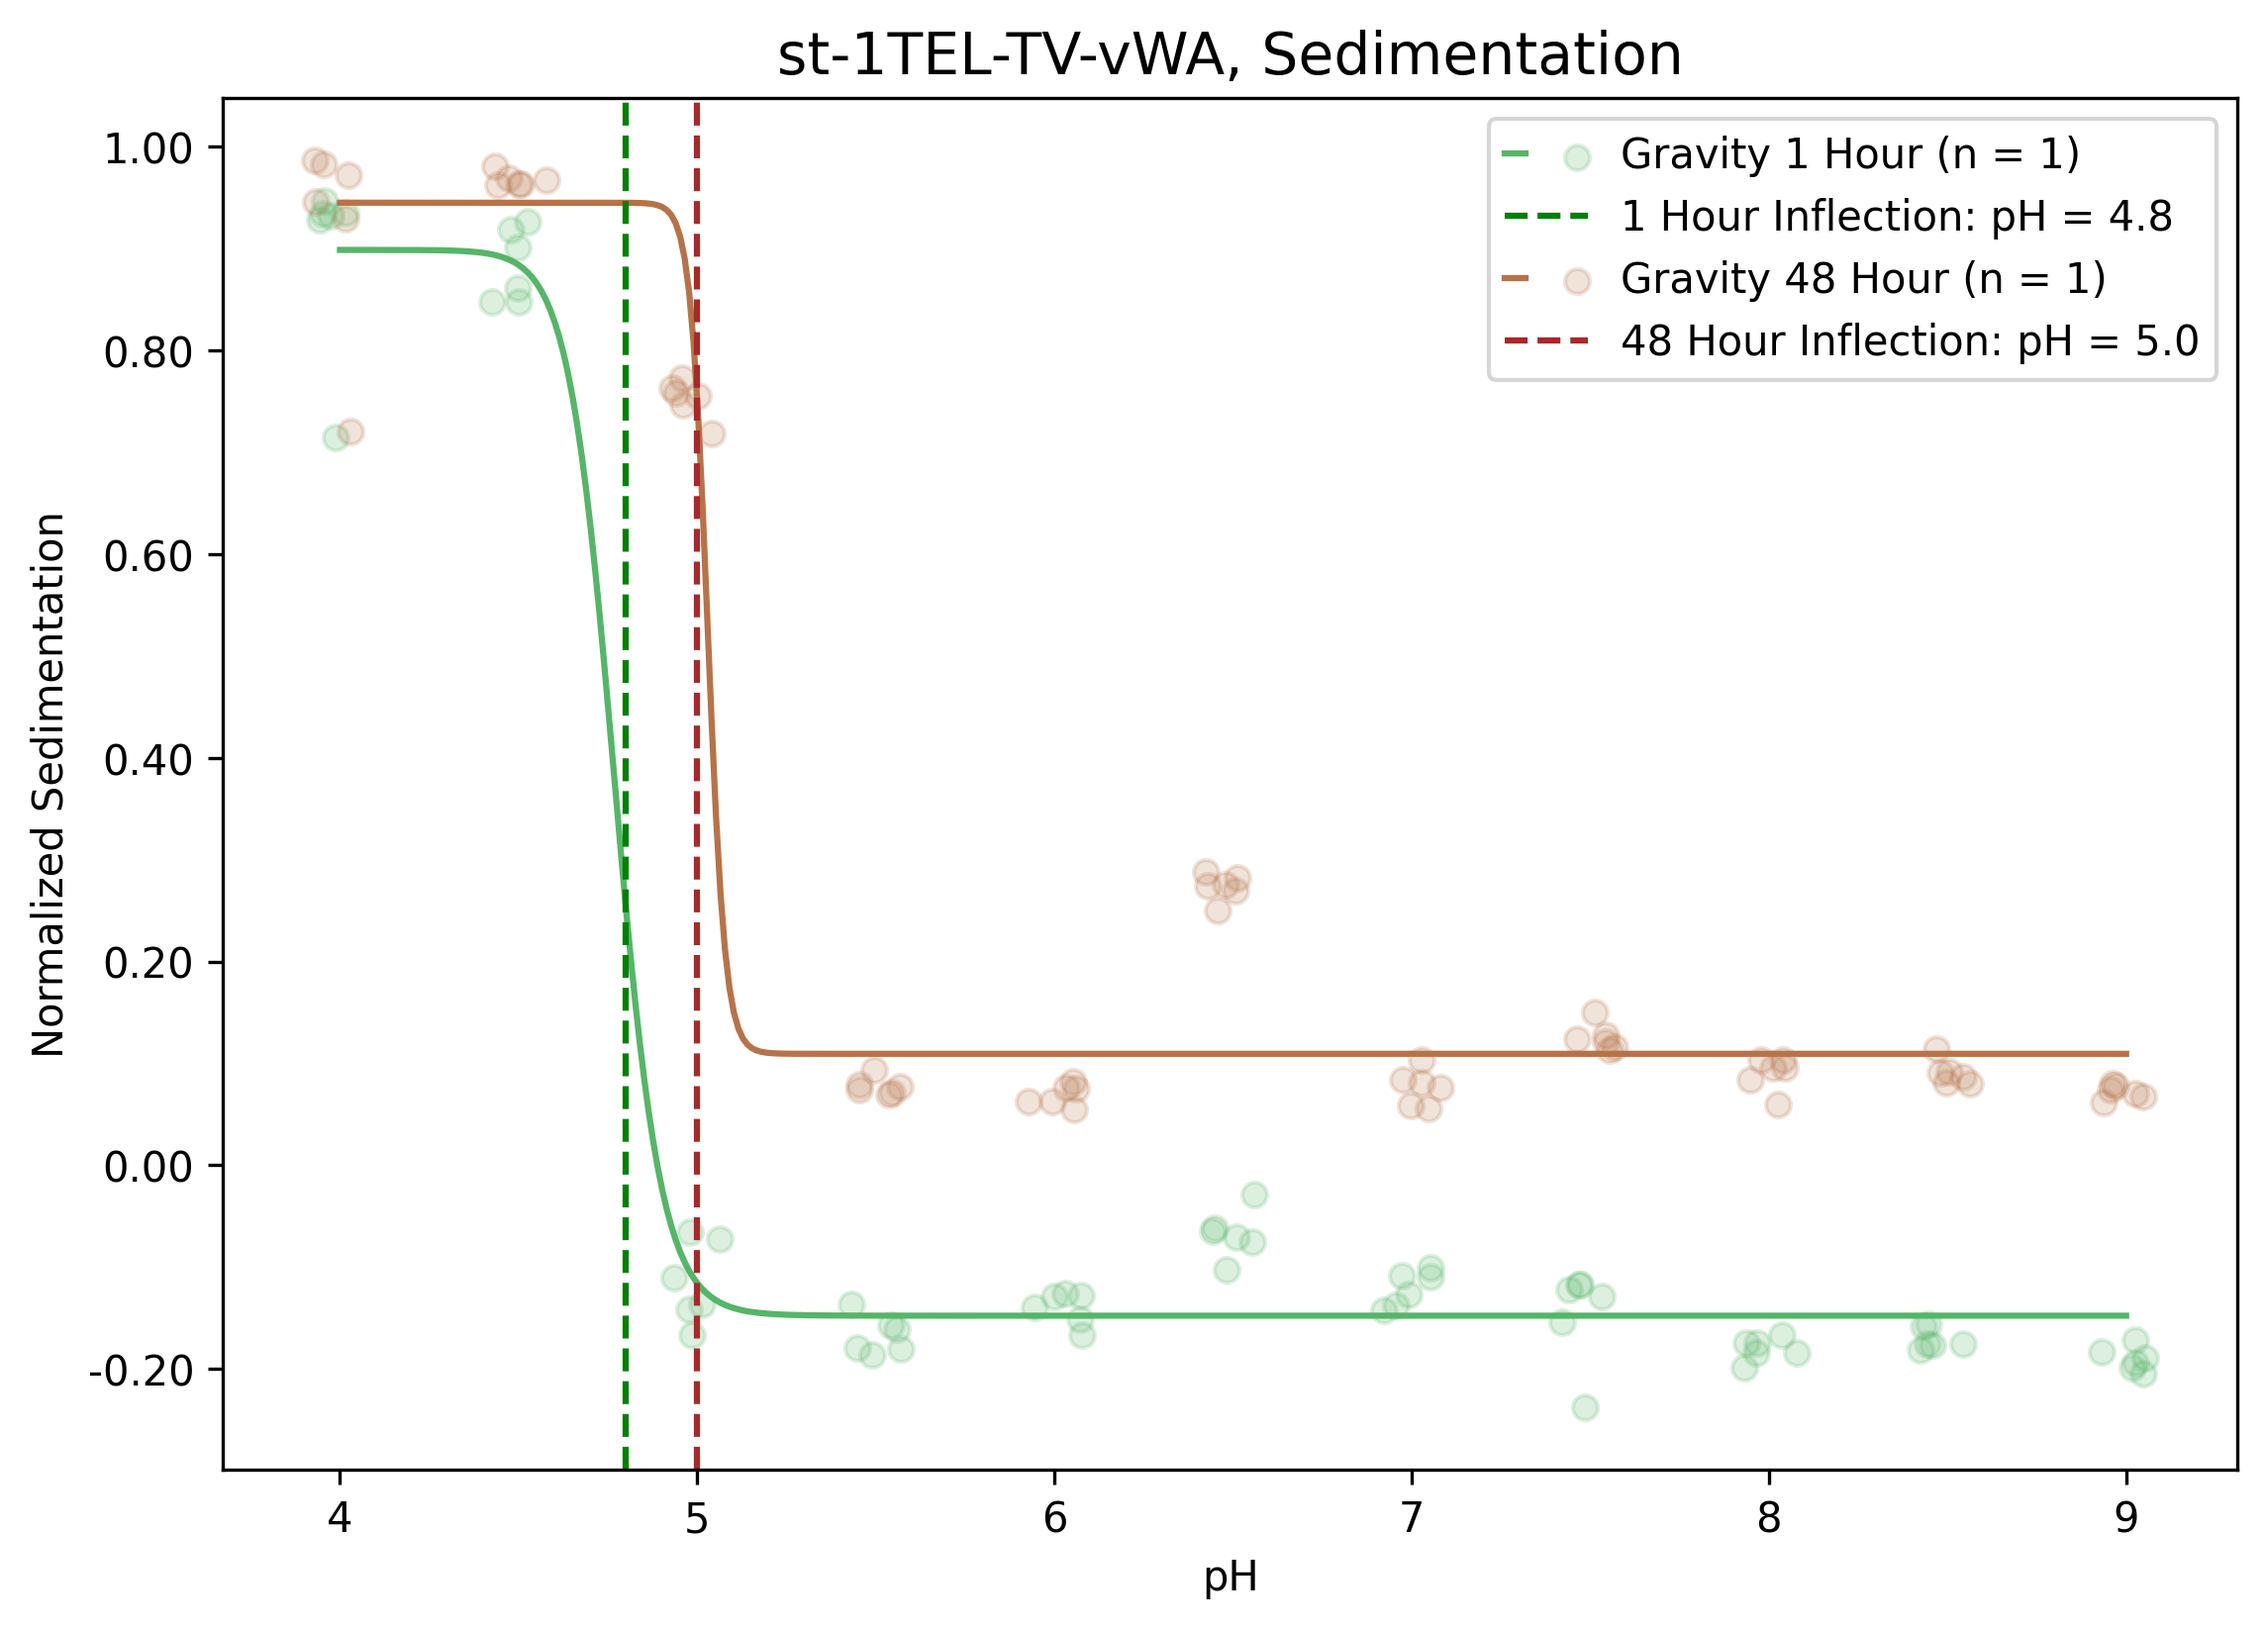
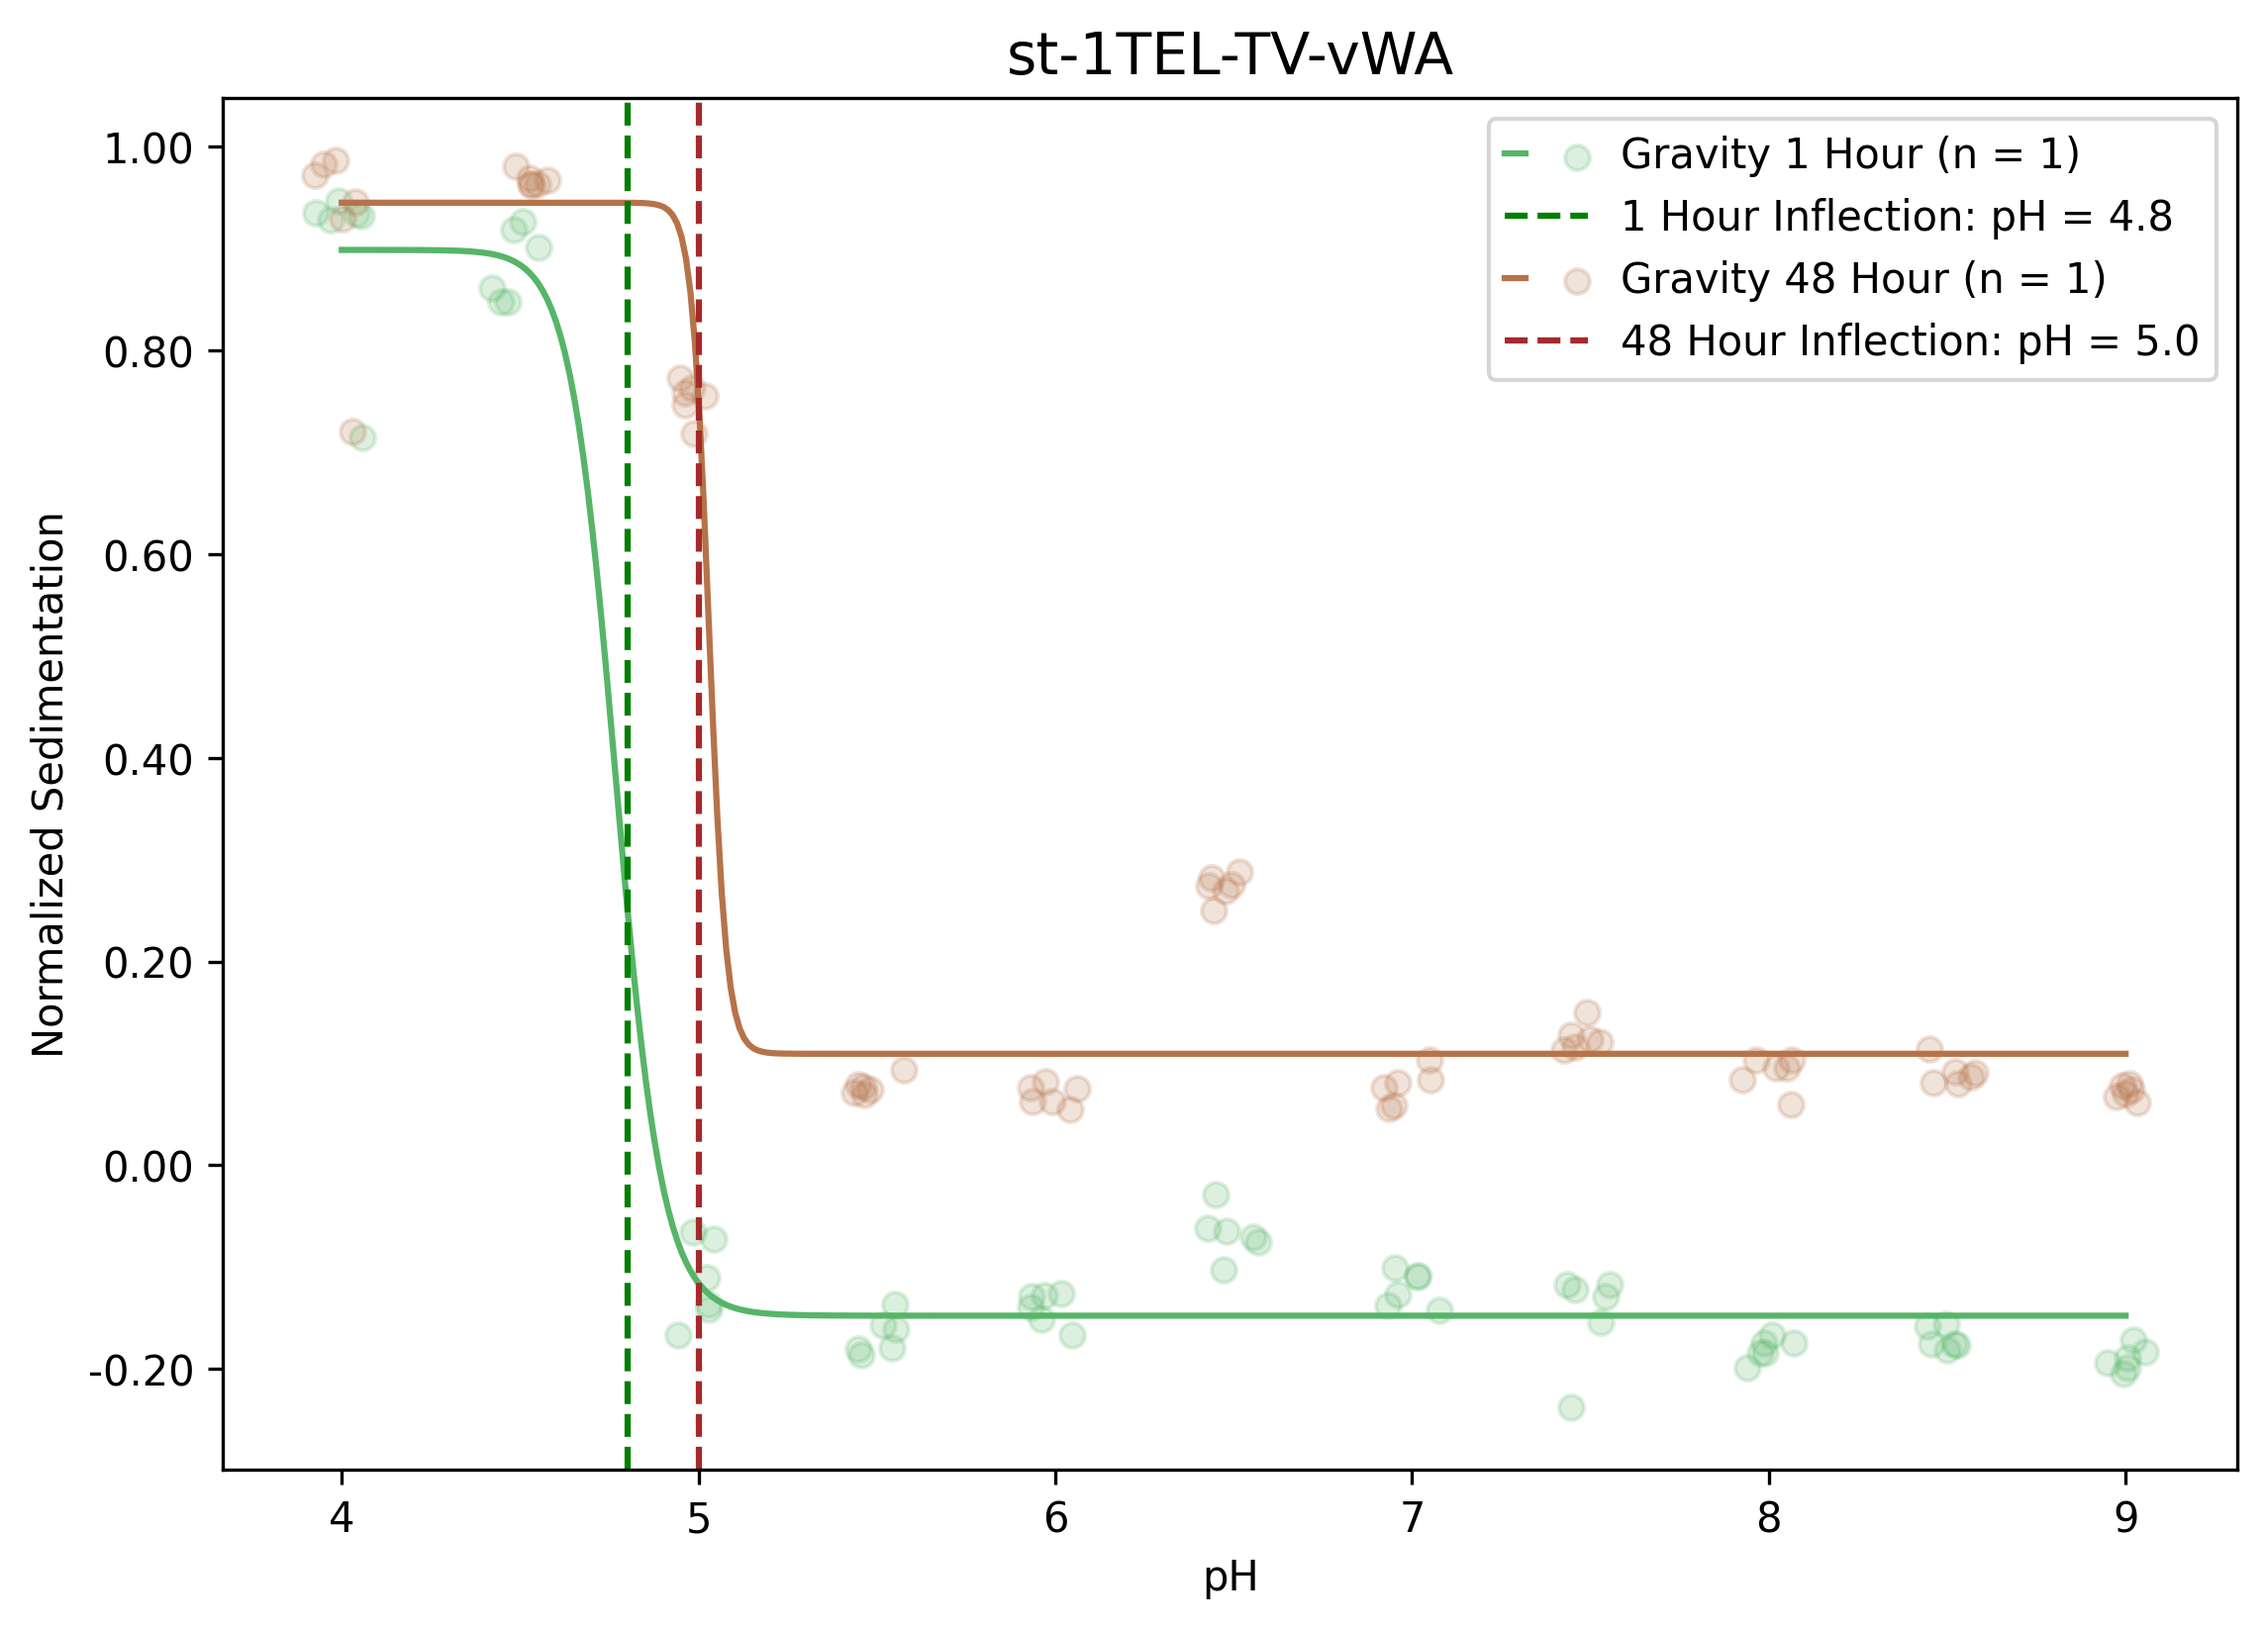
Made normalization of turbidity plots more readable.

diff --git a/process.py b/process.py
@@ -282,7 +282,7 @@ def statisticize(proteins_and_tests:list,plot_singly=False,plot=False,tailored=F
                         value = (theoretical_max_concentration - numeric_replicate) / theoretical_max_concentration
                     # Normalized Absorbance (turbidity plots)
                     else:
-                        value = numeric_replicate * (5/concentration)
+                        value = numeric_replicate/theoretical_max_concentration
                     data['data'].append(value)
                     data['is_starred'].append(is_starred)
                     data['is_single_omitted'].append(is_single_omitted)
